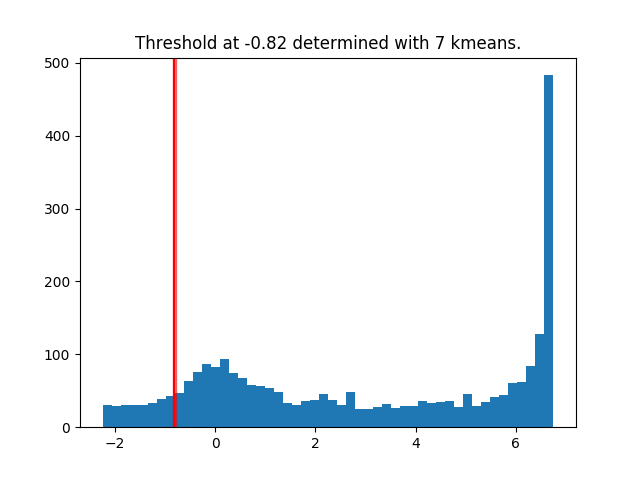
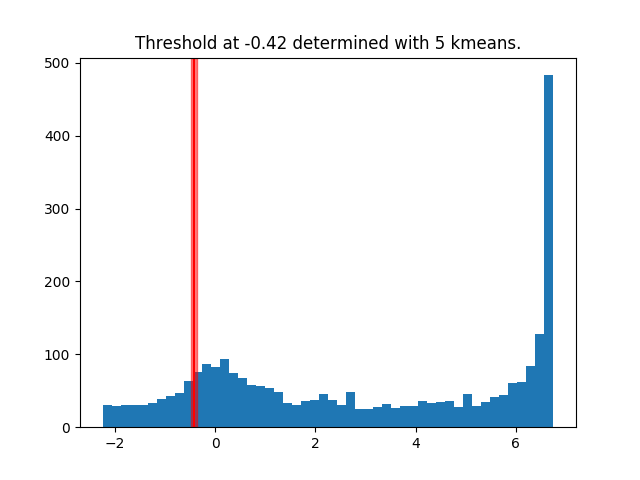
5 kmeans are enough to determine threshold

Changed region(s): [[0.25, 0.125, 0.3125, 0.9062], [0.4062, 0.0625, 0.4375, 0.0938]]

diff --git a/bin/twcDist.py b/bin/twcDist.py
@@ -78,7 +78,7 @@ def calculate_stats(twcListData, ks):
     return [np.max(lowOutlierDatas), groups]
 
 def plot_data_dist_and_anomaly_threshold(data, lower_limit, lowerStd, outpath):
-    plt.title(f"Threshold at {round(lower_limit,2)} determined with 7 kmeans.")
+    plt.title(f"Threshold at {round(lower_limit,2)} determined with 5 kmeans.")
     plt.hist(list(data.values()), bins=50)
     plt.axvline(x=lower_limit, color='r')
     plt.axvspan(lower_limit-lowerStd, lower_limit+lowerStd, color='r', alpha=.5)
@@ -95,10 +95,10 @@ def main(inTWC, outpng, outcsv):
     i = 0
     statMins = list()
     while i < 100:
-        statMins.append(calculate_stats(twcListData, 7)[0])
+        statMins.append(calculate_stats(twcListData, 5)[0])
         i += 1
 
-    groups = calculate_stats(twcListData, 7)[1]
+    groups = calculate_stats(twcListData, 5)[1]
     print(round(np.mean(statMins),3), round(np.std(statMins),3))
     signatureThreshold = np.mean(statMins)
 
